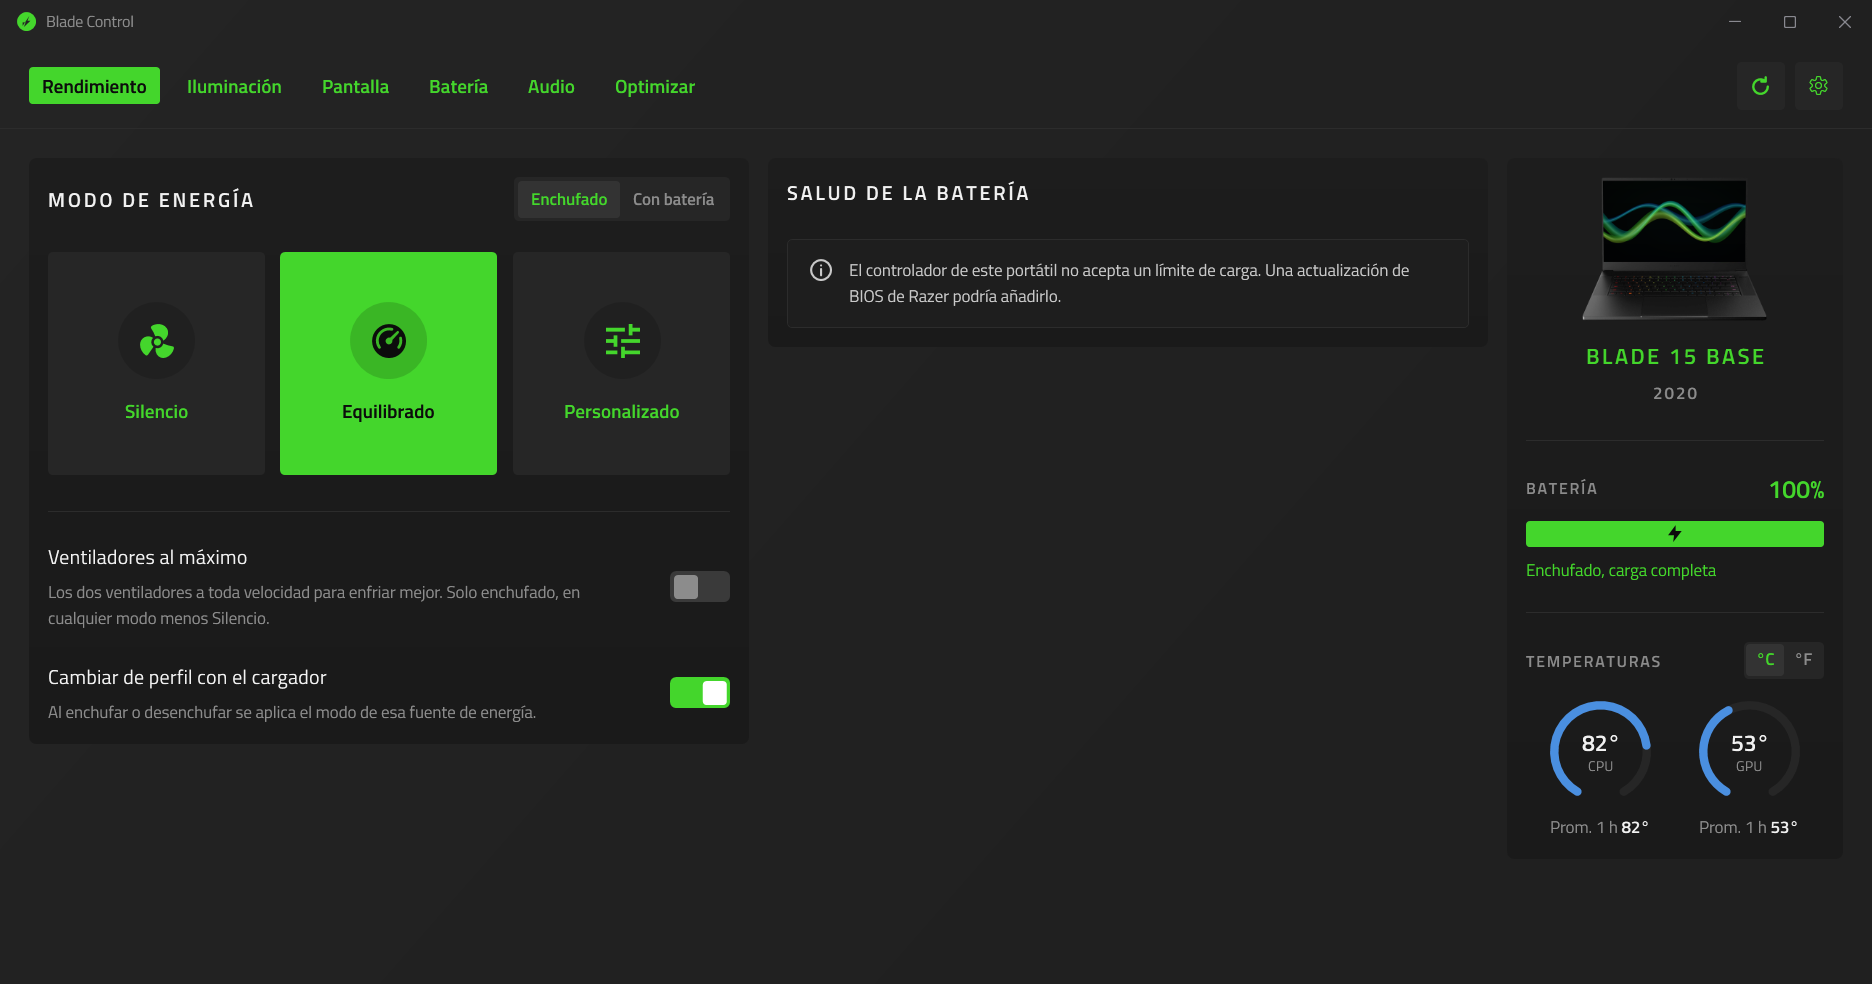
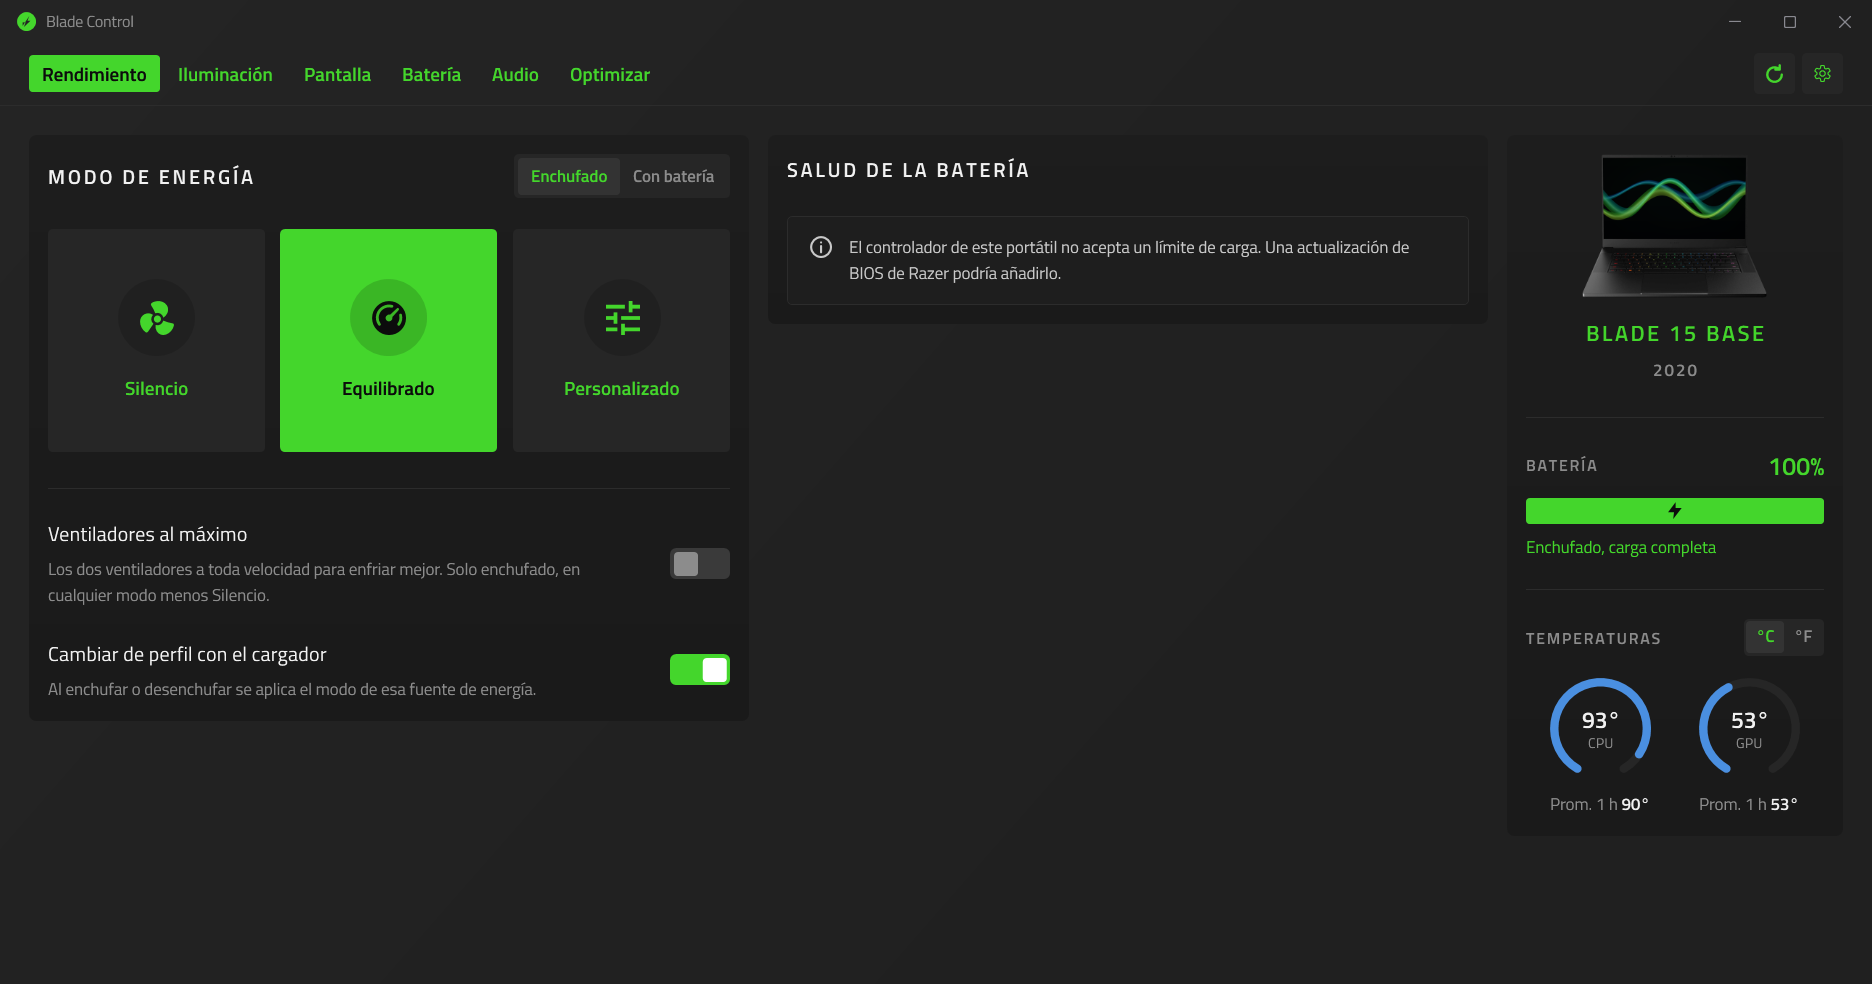
Compacts the page row: closer tabs, smaller buttons, less height

diff --git a/src/BladeControl/Themes/Controls.xaml b/src/BladeControl/Themes/Controls.xaml
@@ -168,8 +168,8 @@
 
     <!-- A square page button with a symbol, beside refresh: Settings. Green on a dark tile, solid green when open. -->
     <Style x:Key="IconTab" TargetType="RadioButton">
-        <Setter Property="Width" Value="40" />
-        <Setter Property="Height" Value="40" />
+        <Setter Property="Width" Value="34" />
+        <Setter Property="Height" Value="34" />
         <Setter Property="Foreground" Value="{StaticResource Brush.Accent}" />
         <Setter Property="Background" Value="{StaticResource Brush.Tile}" />
         <Setter Property="Cursor" Value="Hand" />
@@ -202,7 +202,7 @@
         <Setter Property="FontSize" Value="16" />
         <Setter Property="FontWeight" Value="SemiBold" />
         <Setter Property="Padding" Value="11,3,11,4" />
-        <Setter Property="Margin" Value="0,0,12,0" />
+        <Setter Property="Margin" Value="0,0,4,0" />
         <Setter Property="Cursor" Value="Hand" />
         <Setter Property="GroupName" Value="SubTab" />
         <Setter Property="FocusVisualStyle" Value="{x:Null}" />
@@ -228,8 +228,8 @@
 
     <!-- A square button with a line icon: back, forward, refresh. Content is the icon's geometry. -->
     <Style x:Key="IconButton" TargetType="Button">
-        <Setter Property="Width" Value="40" />
-        <Setter Property="Height" Value="40" />
+        <Setter Property="Width" Value="34" />
+        <Setter Property="Height" Value="34" />
         <Setter Property="Foreground" Value="{StaticResource Brush.Accent}" />
         <Setter Property="Background" Value="{StaticResource Brush.Tile}" />
         <Setter Property="Cursor" Value="Hand" />

diff --git a/src/BladeControl/Views/MainWindow.xaml b/src/BladeControl/Views/MainWindow.xaml
@@ -50,7 +50,7 @@
         </Grid>
 
         <!-- ===== Page row: every page, the last change's message, and refresh ===== -->
-        <Grid Grid.Row="1" Margin="24,16,24,16">
+        <Grid Grid.Row="1" Margin="24,8,24,10">
             <Grid.ColumnDefinitions>
                 <ColumnDefinition Width="Auto" />
                 <ColumnDefinition Width="*" />
@@ -84,8 +84,8 @@
             <StackPanel Grid.Column="2" Orientation="Horizontal">
                 <Button Style="{StaticResource IconButton}" Content="{StaticResource Icon.Refresh}" Command="{Binding RefreshCommand}"
                         ToolTip="{ui:T 'Read the laptop again'}" />
-                <RadioButton Style="{StaticResource IconTab}" Margin="8,0,0,0" IsChecked="{Binding IsSettings}" ToolTip="{ui:T 'Settings'}">
-                    <TextBlock Text="&#xE713;" FontFamily="{StaticResource Font.Symbols}" FontSize="16" />
+                <RadioButton Style="{StaticResource IconTab}" Margin="6,0,0,0" IsChecked="{Binding IsSettings}" ToolTip="{ui:T 'Settings'}">
+                    <TextBlock Text="&#xE713;" FontFamily="{StaticResource Font.Symbols}" FontSize="14" />
                 </RadioButton>
             </StackPanel>
         </Grid>
